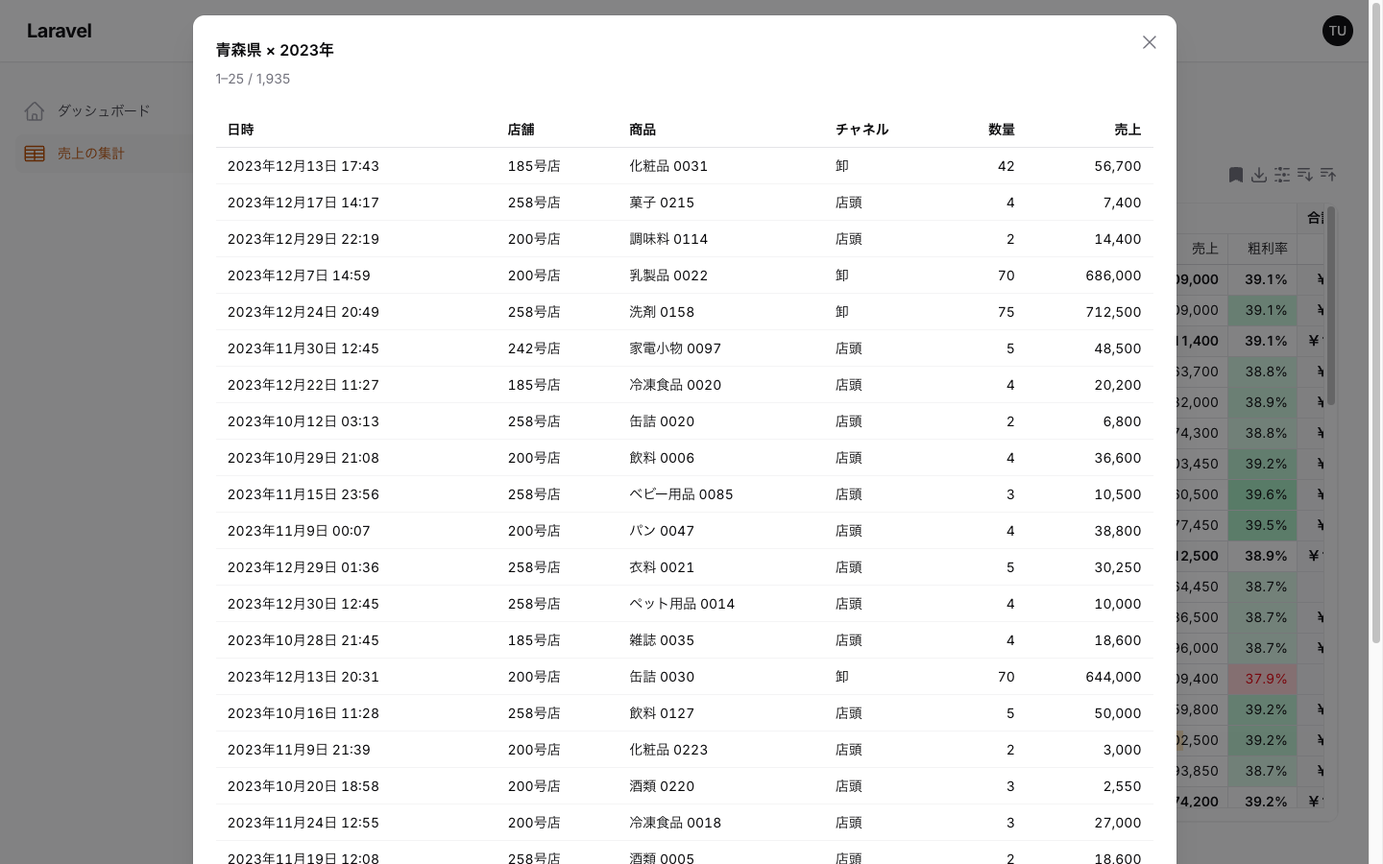
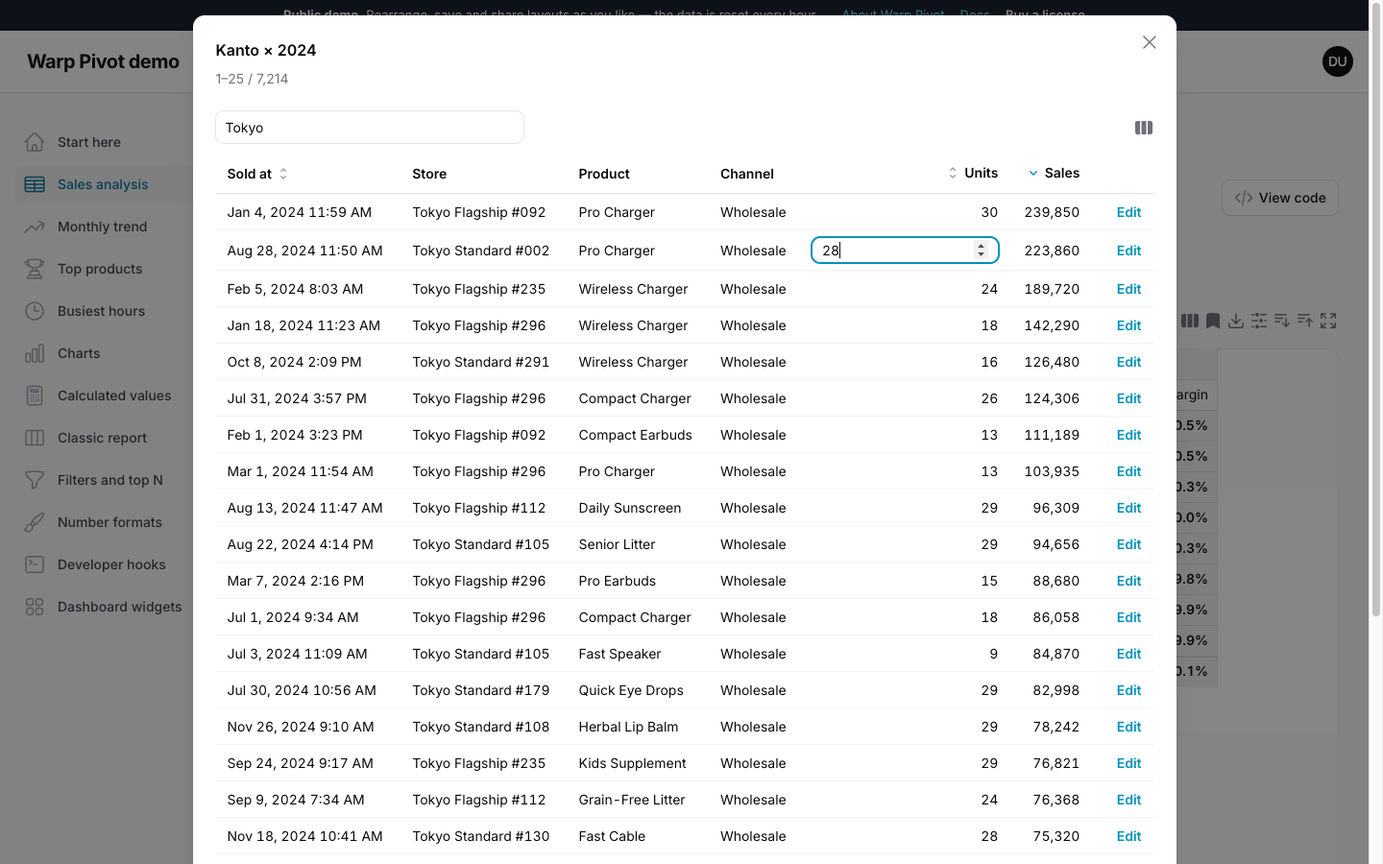
Warp Pivot: conditions, formats, developer hooks, PDF, more languages and a live demo button

diff --git a/README.md b/README.md
@@ -4,6 +4,10 @@
 
 **A pivot table for Filament that aggregates in the database and draws the result on a `<canvas>`: a million source rows are no heavier than a hundred, and a result of thousands of rows and hundreds of columns still scrolls smoothly. Filters, actions, policies and tenancy are Filament's own.**
 
+<a href="https://filament-warp-pivot.webllsystem.com/"><img src="https://raw.githubusercontent.com/qalainau-labs/filament-warp-pivot-docs/main/art/live-demo.png" alt="Try the live demo: filament-warp-pivot.webllsystem.com" width="592"></a>
+
+Drag fields across 200,000 sales, filter regions by their sales, open a cell to search and edit the sales behind it, and export the result to Excel or PDF at **[filament-warp-pivot.webllsystem.com](https://filament-warp-pivot.webllsystem.com/)**. No sign-up needed; the data is reset every hour.
+
 Pivot components for the browser load every record into JavaScript and add them up there. That stops working long before a sales table reaches a million rows. Warp Pivot sends `GROUP BY` queries to your database instead, only for the headers that are open, and sends only the totals to the browser.
 
 ```php
@@ -50,20 +54,27 @@ Whatever is open, the source table is scanned once: the headers under closed hea
 
 ![The field panel to rearrange rows, columns and values](https://raw.githubusercontent.com/qalainau-labs/filament-warp-pivot-docs/main/art/fields.png)
 
-- **Database aggregation**: count, distinct count, sum, average, minimum, maximum, standard deviation, variance, ratios of two measures and SQL expressions. Averages, deviations and ratios of subtotals are computed from the records, never as averages of averages.
-- **Calculated values**: formulas over other values (`[profit_sum] / [quantity_sum]`), defined in code or written by users in the field panel, with `abs`, `round`, `sqrt`, `min`, `max` and `if`.
-- **Pivot charts**: switch the same result to column, stacked column, bar, stacked bar, line, area, column-and-line, pie, donut or scatter charts, with tooltips, a legend to hide series, a click to list the records, and PNG export.
+- **Database aggregation**: count, distinct count, sum, average, minimum, maximum, median, product, standard deviation, variance, ratios of two measures and SQL expressions. Averages, deviations and ratios of subtotals are computed from the records, never as averages of averages.
+- **Calculated values**: formulas over other values (`[profit_sum] / [quantity_sum]`) or over the columns of each record before they are added up (`[amount] - [cost]`), defined in code or written by users in the field panel, with `abs`, `round`, `sqrt`, `min`, `max`, `if`, `and`, `or` and `not`.
+![The table and a stacked column chart of the same result, one above the other](https://raw.githubusercontent.com/qalainau-labs/filament-warp-pivot-docs/main/art/table-and-chart.png)
+
+- **Pivot charts**: switch the same result to column, stacked column, bar, stacked bar, line, area, column-and-line, pie, donut or scatter charts, or show the table and the chart together, with tooltips, a legend to hide series, a click to list the records, and PNG export.
 - **Dimensions**: columns (enum casts give the labels and order), `belongsTo` relationships of any depth (`store.prefecture.region`), dates by year, quarter, month, week, day or hour or by month of year, weekday and hour of day in the user's timezone (daylight saving included), numeric bins and SQL expressions.
 - **Open what you need**: headers open on demand and only the opened part is queried. Expand or collapse everything or one level, sort rows by any column, keep the top or bottom N per group with the rest as "Other", and cap the number of cells.
-- **Filter by members**: pick the values of any dimension from a searchable checklist, on the rows, the columns or a separate filters area, and sort headers A to Z, Z to A or by value.
+![Filtering categories by a condition on their sales](https://raw.githubusercontent.com/qalainau-labs/filament-warp-pivot-docs/main/art/conditions.png)
+
+- **Filter by members and conditions**: pick the values of any dimension from a searchable checklist, or keep what matches a condition on the label (contains, begins with, between…), on a value (sales over 1,000,000) or on the date (between two days, last month, this quarter), on the rows, the columns or a separate filters area. Sort headers A to Z, Z to A, by value or in your own order.
 - **Show values as**: percentage of the row, column or grand total or of the parent row or column, difference or percentage difference from the previous column, running totals, index and rank.
 - **Users arrange it**: a field panel to drag dimensions into rows, columns and filters and measures into values, change the aggregation of a value, save named layouts (private or shared, with a default per user, filters included) and share a link with the layout in the URL.
-- **Layouts**: compact, classic (one column per row dimension, subtotals below) or flat tables, with grand totals and subtotals shown or hidden per axis, and columns resized by dragging.
-- **Formats and colors**: decimals, prefixes and suffixes, currencies and percentages; heatmaps, data bars and text or fill colors by thresholds, set in code or by users.
-- **Drill down**: double-click a cell, or press Enter, to list the records behind it, with links to each record and to another screen (a Warp Sheet, a Warp Table or a resource's list) for the same records.
-- **Export and print**: Excel (.xlsx) with merged headers, frozen labels and number formats, CSV, HTML, PNG of the chart, and printing with the headers repeated on every page. Full-screen mode.
-- **Context menus**: right-click a header to expand or collapse its level, sort or filter it, or a cell to list its records, copy it or change how its value is shown.
-- **Filament inside**: Filament table filters, policies (`viewAny`), tenancy, actions, notifications, dark mode and translations (English and Japanese).
+- **Layouts**: compact, classic (one column per row dimension, subtotals below) or flat tables, with grand totals and subtotals shown or hidden per axis, the grand total at the top or the bottom, a title, and columns resized by dragging.
+![Negative numbers in parentheses, a dash for empty cells, times of day and formula-based conditional formatting](https://raw.githubusercontent.com/qalainau-labs/filament-warp-pivot-docs/main/art/formats.png)
+
+- **Formats and colors**: decimals, prefixes and suffixes, currencies, percentages and durations, negative numbers in parentheses, your own separators, and text for empty cells and divisions by zero; heatmaps, data bars and conditional formatting by thresholds or formulas (`[value] < 0 and [amount_sum] > 1000000`) with colors, bold and italic, for all cells, values only or totals only, set in code or by users.
+- **Drill down**: double-click a cell, or press Enter, to list the records behind it. Search and sort them, choose the columns, edit a cell in place or run Filament actions such as edit and delete without leaving the list: the totals update when you save. Link to each record and to another screen for the same records.
+- **Export and print**: Excel (.xlsx) with merged headers, frozen labels and number formats, CSV, PDF, PNG of the table or the chart, HTML, and printing with the headers repeated on every page, all with a header and footer (title, date, page numbers). Hand files to the server instead of downloading them, and save or open a layout as a file. Full-screen mode.
+- **Context menus**: right-click a header to expand or collapse its level, sort or filter it, or a cell to list its records, copy it, change how its value is shown or run your own Filament actions.
+- **Hooks for developers**: Filament actions on cells with the records of the cell, a JavaScript API (state, layout, filters, cells, chart data for other chart libraries), events for clicks, data and changes, and hooks to draw cells and build the context menu your way.
+- **Filament inside**: Filament table filters, policies (`viewAny`, `update`, `delete`), tenancy, actions, notifications, dark mode and translations (English, Japanese, German, French, Spanish, Italian, Brazilian Portuguese, Korean and Chinese, simplified and traditional).
 - **Keyboard and screen readers**: arrow keys, Shift to extend a selection, Ctrl/Cmd+A and Ctrl/Cmd+C (tab-separated, ready to paste into a spreadsheet), and a live count, sum and average of the selection. The visible cells are exposed as an ARIA grid.
 
 ## Requirements
@@ -146,7 +157,9 @@ use Qalainau\FilamentWarpPivot\Measures\Avg;
 use Qalainau\FilamentWarpPivot\Measures\Count;
 use Qalainau\FilamentWarpPivot\Measures\CountDistinct;
 use Qalainau\FilamentWarpPivot\Measures\Max;
+use Qalainau\FilamentWarpPivot\Measures\Median;
 use Qalainau\FilamentWarpPivot\Measures\Min;
+use Qalainau\FilamentWarpPivot\Measures\Product;
 use Qalainau\FilamentWarpPivot\Measures\Ratio;
 use Qalainau\FilamentWarpPivot\Measures\StdDev;
 use Qalainau\FilamentWarpPivot\Measures\Sum;
@@ -164,13 +177,26 @@ StdDev::make('amount');                                      // sample; ->popula
 Variance::make('amount');
 Sum::make('amount')->name('index')->showAs(ShowAs::Index);
 Sum::make('amount')->name('rank')->showAs(ShowAs::Rank, along: 'rows');
+Median::make('amount');                                      // queried per level, like distinct counts
+Product::make('growth_factor');
+Avg::make('handling_seconds')->duration('seconds');          // 27:05:00, or ->duration('minutes', 'short') for 27h 5m
+Sum::make('balance')->negativeInParentheses()->blankAs('—')->divisionByZeroAs('#DIV/0!')->separators(' ', ',');
 ```
 
 A measure's name defaults to `column_function` (`amount_sum`); set another with `name()`, for example when the same column appears twice. Users can change how each value is shown in the field panel.
 
 Color cells with `heatmap('success', 'danger')` (high and low colors), `dataBars()` and `colorWhen('<', 0, 'danger')` (add `background: true` to fill the cell instead of coloring the text). Colors are Filament color names. Heatmaps and data bars are scaled to the innermost visible cells (closed groups included), without subtotals and totals.
 
-Users can change the aggregation of a value in the field panel (sum, average, minimum, maximum, count, standard deviation or variance of the same column) and its decimals, heatmap, data bars and conditional formatting. Limit the aggregations with `aggregations(['sum', 'avg'])`, or turn switching off with `aggregations(false)`.
+`formatWhen()` takes a condition written like a calculated value, where `[value]` is the cell and `[name]` another value of the same cell, and sets a color, bold or italic, for all cells, the values only (`scope: 'cells'`) or the subtotals and totals only (`scope: 'totals'`):
+
+```php
+Ratio::make('margin')->of(/* … */)
+    ->formatWhen('[value] < 0.3 and [amount_sum] > 1000000', 'danger', bold: true)
+    ->formatWhen('[value] >= 0.5', 'success', background: true, scope: 'cells')
+    ->formatWhen('[value] > 0', italic: true, scope: 'totals');
+```
+
+Users can change the aggregation of a value in the field panel (sum, average, minimum, maximum, count, standard deviation, variance, median or product of the same column) and its decimals, negative numbers, text for empty cells, heatmap, data bars and conditional formatting (thresholds or formulas, with colors, bold and italic). Limit the aggregations with `aggregations(['sum', 'avg'])`, or turn switching off with `aggregations(false)`. `aggregationLabels()` on the pivot names the values after their aggregation ("Sum of Sales").
 
 ### Calculated values
 
@@ -188,7 +214,16 @@ $pivot
     ]);
 ```
 
-Formulas support numbers, `+ - * /`, parentheses, comparisons inside `if()`, and `abs`, `round`, `sqrt`, `min`, `max` and `if`. A division by zero or a missing value gives an empty cell. Formulas are evaluated in PHP, never as SQL, so users can write their own with the calculator button of the field panel; turn that off with `calculatedValues(false)`.
+Formulas support numbers, `+ - * /`, parentheses, comparisons, `and`, `or` and `not`, and `abs`, `round`, `sqrt`, `min`, `max` and `if`. A missing value gives an empty cell, and a division by zero the text of `divisionByZeroAs()` (empty by default). Formulas are evaluated in PHP, never as SQL, so users can write their own with the calculator button of the field panel; turn that off with `calculatedValues(false)`.
+
+To let users calculate a value for each record before it is added up, name the columns they may use. The calculator then offers "Calculate for each record" with a sum, average, minimum or maximum of the result:
+
+```php
+$pivot->recordFormulaColumns(['amount' => 'Sales', 'cost' => 'Cost', 'quantity' => 'Units']);
+// a user writes [amount] - [cost] and picks Sum: the profit of every record, added up
+```
+
+Record formulas are turned into SQL from the parsed formula: numbers are written as numbers and only the columns you named can be used.
 
 ### Sorting, top N and member filters
 
@@ -198,7 +233,13 @@ Relationship::make('product')->limit(10, bottom: true);      // the ten smallest
 Relationship::make('product')->orderByLabel('desc');         // Z to A
 ```
 
-Users can do the same from the funnel button of a dimension in the field panel or by right-clicking a header: pick the values to keep from a searchable list (up to 2,000 values are listed), sort the headers, and keep the top or bottom N by any value. Dimensions dropped in the **Filters** area of the field panel filter the records without becoming rows or columns. Member filters are applied in the database, so totals and drill-downs include only the kept values.
+Users can do the same from the funnel button of a dimension in the field panel or by right-clicking a header: pick the values to keep from a searchable list (up to 2,000 values are listed), sort the headers (also in their own order, moved up and down), keep the top or bottom N by any value, or set a condition:
+
+- **Label**: equals, contains, begins or ends with (or not), greater or less than, between (numbers in labels compare as numbers, so "Store 9" comes before "Store 10").
+- **Value**: a value of each header (such as its sales) equals, is greater or less than, or is between two numbers.
+- **Date** (date dimensions): on, before or after a day, between two days, or in the last, current or next days, weeks, months, quarters or years, in the dimension's timezone.
+
+Dimensions dropped in the **Filters** area of the field panel filter the records without becoming rows or columns. Member filters and conditions are applied in the database, so totals and drill-downs include only the kept values. Date conditions compare the column itself, so an index on it makes them fast; label and value conditions first look up the matching values (up to 10,000) with one more grouped query.
 
 ### Layout, totals and charts
 
@@ -210,8 +251,11 @@ $pivot
     ->layoutForm(LayoutForm::Classic)                        // Compact (default), Classic or Flat
     ->grandTotals(rows: true, columns: false)
     ->subtotals(false)
+    ->grandTotalsPosition('top')                             // the grand total row above the table
     ->chartType(ChartType::StackedColumn)
-    ->startWithChart();                                      // open on the chart instead of the table
+    ->startWithChart(withGrid: true)                         // open on the table and the chart together
+    ->title('Sales by region')                               // shown above the pivot, in prints and exports
+    ->expandable(false);                                     // keep the headers as defaultExpanded() opens them
 ```
 
 Users change these in the layout options and chart menus of the toolbar; they are saved with the layout and kept in the URL. The chart shows the same result as the table: the innermost visible rows are its categories and the innermost visible columns of one value its series (up to eight). Turn charts off with `charts(false)`.
@@ -249,9 +293,38 @@ On pages, the current layout is also kept in the `pivot` query string parameter,
 
 Double-click a cell (or press Enter) to list the records behind it, 25 per page.
 
+![The sales behind a cell, searched for Tokyo, sorted by amount, with a quantity being edited in place](https://raw.githubusercontent.com/qalainau-labs/filament-warp-pivot-docs/main/art/drill-down.png)
+
 ```php
+use Filament\Actions\DeleteAction;
+use Filament\Actions\EditAction;
+use Filament\Forms\Components\TextInput;
+
 $pivot
     ->drillDownColumns(['sold_at' => 'Date', 'store.name' => 'Store', 'amount' => 'Amount'])
+    ->drillDownSearchable(['store.name', 'product.name'])
+    ->drillDownSortable(['sold_at', 'amount'])
+    ->drillDownEditable(['quantity' => ['required', 'integer', 'min:1']])
+    ->drillDownRecordActions([
+        EditAction::make()->schema([
+            TextInput::make('amount')->numeric()->required(),
+        ]),
+        DeleteAction::make(),
+    ]);
+```
+
+- `drillDownSearchable()` adds a search box that looks for the text in the given attributes, following relationships like `store.name`. Search text columns.
+- `drillDownSortable()` lets users click a header to sort by it. Only columns of the model's own table can be sorted. Index them if a cell can hold many records.
+- `drillDownEditable()` lets users double-click a cell of these columns (of the model's own table) to change it and press Enter to save. The value is validated with the rules you give, the record is looked up within the pivot's filters and tenant, and the model's `update` policy is checked when there is one.
+- Users can hide and show the columns of the list; the choice is remembered in their browser.
+- `drillDownRecordActions()` adds Filament actions to each record. They open on top of the list, and when they finish, the list and the totals behind it are queried again. The records come from the pivot's query, with its filters and tenant. `EditAction`, `DeleteAction`, `ViewAction`, `ReplicateAction`, `RestoreAction` and `ForceDeleteAction` follow the model's policy (`update`, `delete` and so on) when it has one, as they do in a resource. Call `authorize()` on an action to decide yourself.
+
+Searching and sorting are done in the database, and the list is still sent as data and drawn in the browser, so it stays fast.
+
+To open the records somewhere else, link to them:
+
+```php
+$pivot
     ->recordUrl(fn (Sale $record): string => SaleResource::getUrl('view', ['record' => $record]))
     ->drillDownUrl(fn (array $conditions): string => SaleResource::getUrl('index', [
         'tableFilters' => ['channel' => ['value' => $conditions['channel'] ?? null]],
@@ -262,7 +335,66 @@ $pivot
 
 ### Export
 
-The export menu writes the table as it is on screen (open headers, sorting, layout and totals included) to Excel, CSV or HTML, saves the chart as a PNG image, or prints it. Limit the formats with `exportable(['csv'])`, or remove the menu with `exportable([])`. Name the file with `exportFileName('sales')`.
+The export menu writes the table as it is on screen (open headers, sorting, layout, totals and formats included) to Excel, CSV, PDF, a PNG image or HTML, saves the chart as a PNG image, or prints it. Limit the formats with `exportable(['xlsx', 'pdf'])` (`xlsx`, `csv`, `pdf` and `png`), or remove the menu with `exportable([])`. Name the file with `exportFileName('sales')`.
+
+```php
+$pivot
+    ->exportHeader('{title} – {date}')
+    ->exportFooter('Page {page} of {pages}')
+    ->exportSheetName('Sales')
+    ->saveExportsUsing(fn (string $contents, string $fileName) => Storage::put("reports/{$fileName}", $contents));
+```
+
+- The header and footer go on every page of PDFs and prints, above and below PNG images, HTML and CSV files, and into the print header and footer of xlsx files. `{title}` is the pivot's `title()` (or the page title), `{date}` the current date and time.
+- PDFs are A4 landscape. Tables that are a little too wide are shrunk to fit; wider tables are split across pages, with the row headers on every page. Pages are drawn like the screen and embedded as images, so every script and language prints with no font files, but the text in the PDF cannot be selected.
+- `saveExportsUsing()` receives xlsx and CSV files on the server instead of downloading them, and notifies the user.
+- The same menu saves the current layout (fields, open headers, sorting, display) to a JSON file and opens one again.
+
+## Hooks for developers
+
+### Cell actions
+
+Add Filament actions to the context menu of the cells. They receive the cell in `$arguments`, and `cellQuery()` gives you its records:
+
+```php
+use Filament\Actions\Action;
+
+$pivot
+    ->cellActions([
+        Action::make('followUp')
+            ->schema([Textarea::make('note')->required()])
+            ->action(function (array $arguments, array $data): void {
+                $sales = $this->getWarpPivot()->cellQuery($arguments)->get();
+                // $arguments: row, column, conditions (dimension => value), labels, measure, value, layout
+            }),
+    ])
+    ->cellClickAction('followUp');                           // also open it with a click on a cell
+```
+
+The arguments come from the browser, so check permissions in the action as you would anywhere. When the action finishes, the pivot is queried again.
+
+### JavaScript
+
+The pivot's element has a `warpPivot` property with an API, also passed in the `warp-pivot:ready` event:
+
+```js
+document.addEventListener('warp-pivot:ready', (event) => {
+    const pivot = event.detail.pivot
+
+    // Draw cells your way: return { text, color, background, bold, italic } or nothing
+    pivot.customizeCell((cell) => (cell.value > 1_000_000 ? { bold: true, color: 'success' } : null))
+
+    // Change the context menu: items are { label, run }
+    pivot.customizeContextMenu((items, context) => [...items, { label: 'Log', run: () => console.log(context.cell) }])
+})
+
+document.addEventListener('warp-pivot:cell-click', (event) => console.log(event.detail))
+```
+
+- Methods: `refresh()`, `getState()`, `setState(state)`, `setLayout(layout)`, `setDisplay(changes)`, `setFilter(dimension, { filter, condition, sort, limit })`, `expandAll()`, `collapseAll()`, `getCell(row, column)`, `getSelection()`, `getChartData(measure)`, `customizeCell(fn)`, `customizeContextMenu(fn)` and `print()`.
+- Events (bubbling from the pivot to `document`): `warp-pivot:ready`, `warp-pivot:data-loaded`, `warp-pivot:state-changed`, `warp-pivot:cell-click` and `warp-pivot:cell-dblclick`. Cells carry `row` and `column` (header paths), `rowLabel`, `columnLabel`, `conditions`, `measure`, `value`, `text` and `kind` (`cell`, `subtotal` or `total`).
+- `customizeCell()` is called for every visible cell each time the pivot is drawn, so keep it quick. Colors are Filament color names or CSS colors.
+- To draw the result with another chart library, read `getChartData()` (categories and series of the visible rows and columns) after `warp-pivot:data-loaded`.
 
 ## Keyboard
 
@@ -283,7 +415,9 @@ Click a row or column header to open or close it, and click a value header to so
 
 - Distinct counts cannot be added up, so each visible level is queried separately when they are shown, and "Other" headers show no distinct count.
 - Sorting by a column happens in the browser for the loaded rows. `orderByValue()` and `limit()` sort on the server.
-- The drill-down list shows record attributes as text; it is not a Filament table.
+- The drill-down list shows record attributes as text; it is not a Filament table. Use `drillDownEditable()` and `drillDownRecordActions()` to edit records from it.
+- Medians are queried for every visible level with window functions (MySQL 8, MariaDB 10.2, SQLite 3.25, PostgreSQL), which takes longer than sums on large tables. Products use `ln()`, which SQLite has from 3.35 when built with its math functions.
+- PDFs contain the pages as images: the text in them cannot be selected or searched.
 - Dates in MySQL, MariaDB and SQLite are shifted to the display timezone with the daylight saving rules from 1990 to 2050. PostgreSQL uses its own timezone database.
 
 ## Troubleshooting

diff --git a/CHANGELOG.md b/CHANGELOG.md
@@ -17,6 +17,7 @@ and this project adheres to [Semantic Versioning](https://semver.org/spec/v2.0.0
 - A field panel to rearrange rows, columns and values, saved layouts with filters (private, shared and default), and the layout in the URL.
 - Number formats, heatmaps, data bars and colors by thresholds.
 - Drilling down from a cell to its records, with links to each record and to another screen.
+- Searching and sorting the drill-down list (`drillDownSearchable()`, `drillDownSortable()`), and Filament actions on its records (`drillDownRecordActions()`) that open on top of it and update the totals when they finish.
 - Excel and CSV export and printing. The CSV writes values that spreadsheets would read as formulas (`=`, `+`, `-`, `@`) as text.
 - Filament table filters, `viewAny` policies and tenancy.
 - Cell selection with the keyboard, copying as tab-separated text, a live count, sum and average, and an ARIA grid for screen readers.
@@ -28,4 +29,12 @@ and this project adheres to [Semantic Versioning](https://semver.org/spec/v2.0.0
 - Values shown as an index or a rank among their siblings.
 - Compact, classic and flat layouts, grand totals and subtotals shown or hidden per axis, columns resized by dragging, and the display saved with layouts and in the URL.
 - Context menus on headers and cells, expanding or collapsing one level, HTML export and full-screen mode.
-- English and Japanese translations.
+- Conditions on dimensions: on the label (contains, begins with, between…), on a value of each header, and on dates (between two days, the last, current or next period).
+- `Median` and `Product` measures, durations (`duration()`), negative numbers in parentheses, text for empty cells and divisions by zero, and custom separators.
+- Conditional formatting with formulas over the cell and the other values of the cell (`formatWhen()`), with bold and italic, for all cells, values only or totals only.
+- Calculated values over the columns of each record (`recordFormulaColumns()`), and `and`, `or` and `not` in formulas.
+- The grand total row at the top (`grandTotalsPosition()`), the table and the chart together, a title, value labels with their aggregation, pivots that cannot be opened and closed, and headers in the user's own order.
+- Choosing the columns of the drill-down and editing its cells in place (`drillDownEditable()`).
+- PDF and PNG exports of the table, headers and footers for every export, the xlsx sheet name, exports handed to the server (`saveExportsUsing()`), and layouts saved to and opened from a file.
+- Cell actions (`cellActions()`, `cellClickAction()`, `cellQuery()`), a JavaScript API, events, and hooks to draw cells and build the context menu.
+- English, Japanese, German, French, Spanish, Italian, Brazilian Portuguese, Korean and Chinese (simplified and traditional) translations.

diff --git a/LICENSE.md b/LICENSE.md
@@ -22,15 +22,13 @@ the Software according to the license tier you purchased:
   One (1) year of updates.
 - **Unlimited Projects** — Use in an **unlimited** number of projects, including
   SaaS applications. One (1) year of updates.
-- **Lifetime** — Same as Unlimited Projects, with updates for as long as the
-  Software is maintained.
 
 A "project" means a single application codebase. Each end product you sell,
 sublicense, or deploy for a distinct client counts as a separate project.
 
 A "SaaS application" means an application that serves multiple customers or
 organizations under a subscription or similar arrangement. Using the Software in a
-SaaS application requires an Unlimited Projects or Lifetime license.
+SaaS application requires an Unlimited Projects license.
 
 ## 2. Permitted Use
 
